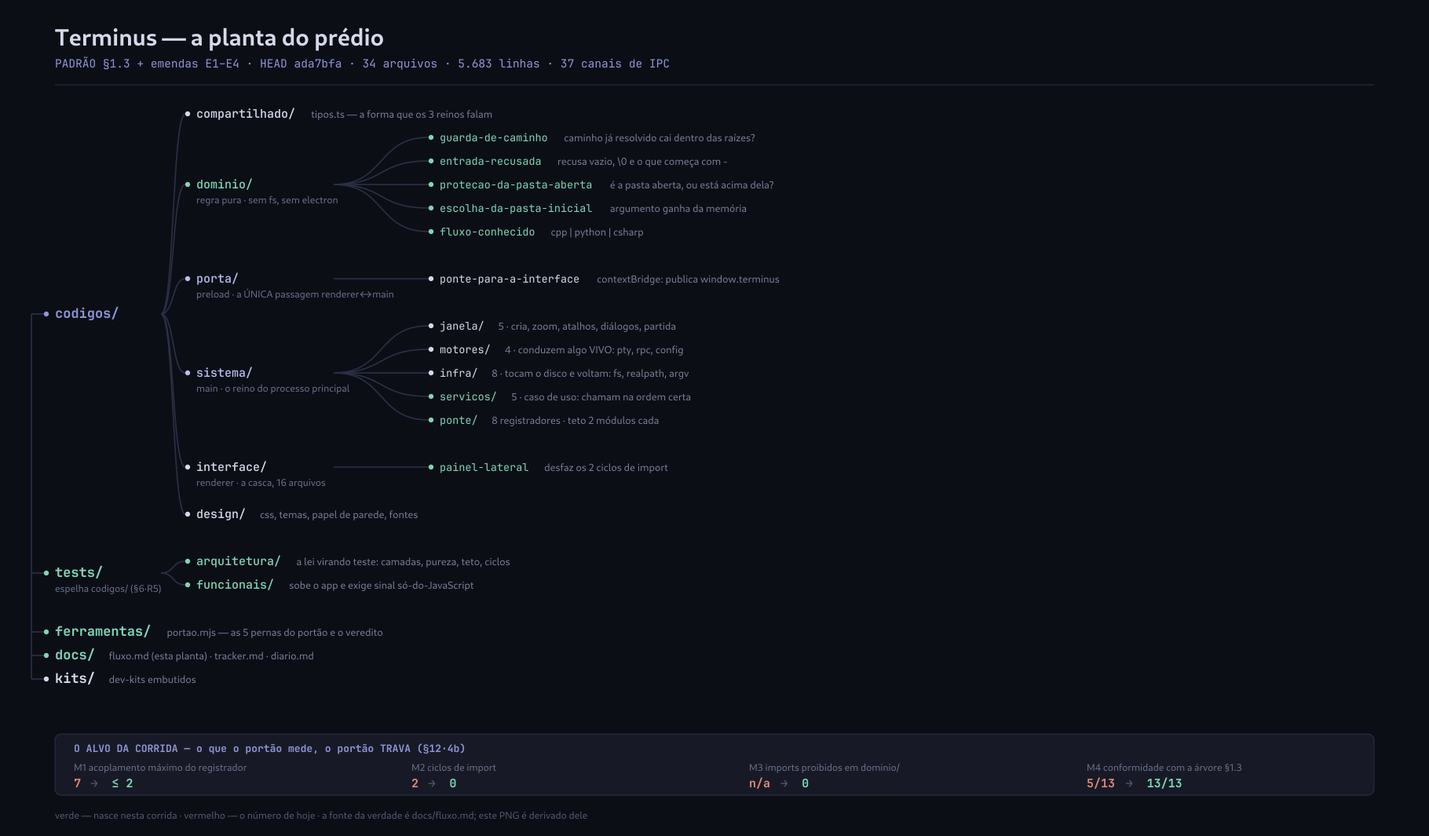
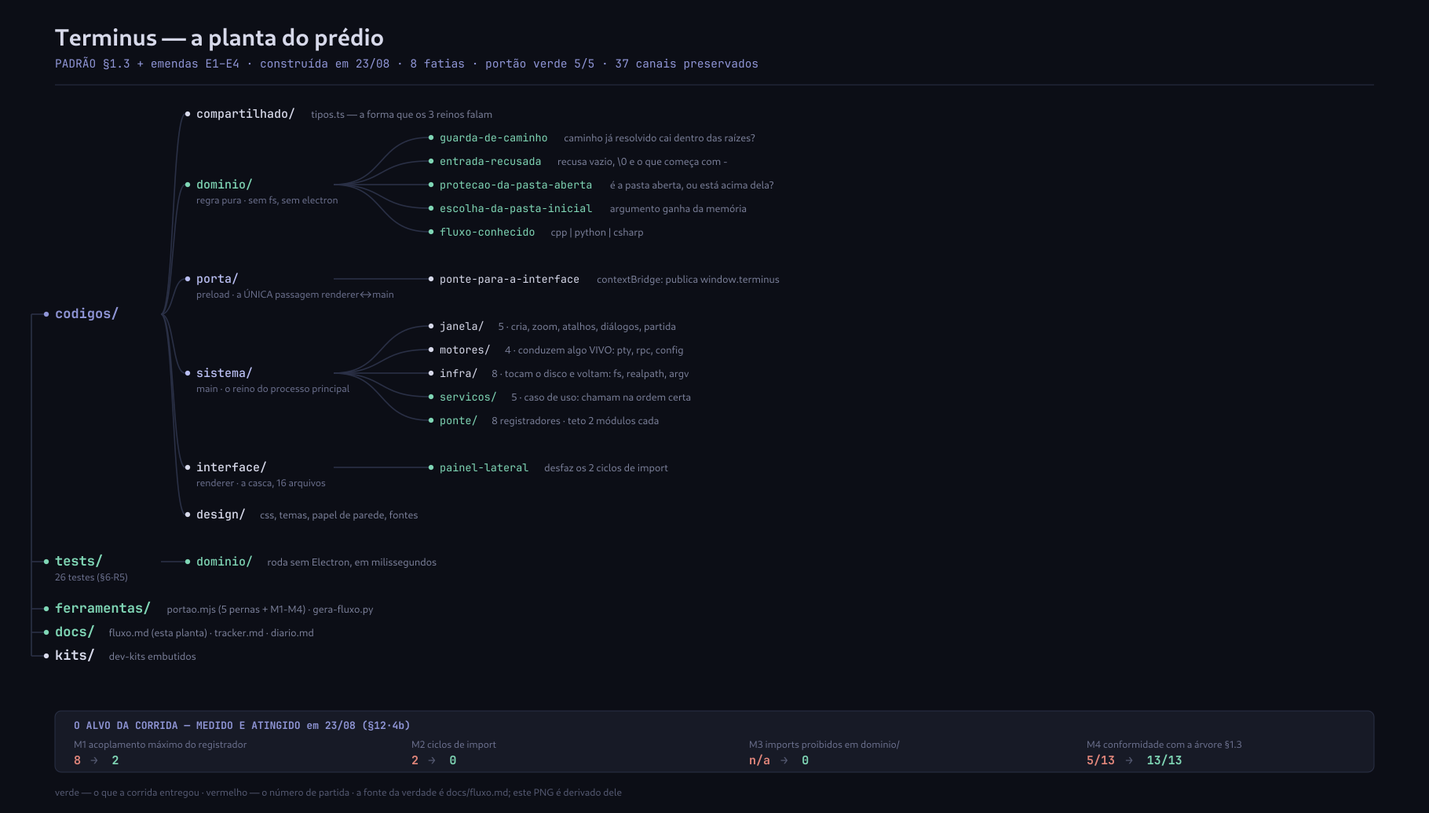
fechamento: varredura e vitrine (§12 passo 6) — a corrida fecha
ATO 1 — VARREDURA do que a corrida moveu. Todo caminho velho procurado no
repo inteiro. Achou tres alem dos que eu ja conhecia:
  README:248-251  desenhava src/main|preload|renderer -> agora a arvore real
  README:443      src/renderer/fontes/ -> codigos/design/fontes/
  LICENSE:28      src/renderer/fontes/ -> codigos/design/fontes/  (nao estava
                  no meu levantamento do despacho 1; so a varredura achou)
  fontes.css:1    mandava "rode o gerador", e o gerador e o tools/extract_fonts.py
                  que o D1 removeu. Cauda direta de decisao aprovada.

ATO 2 — VITRINE CONFERIDA. Os comandos do README RODADOS:
  npm install   exit 0
  npm run dev   sobe, main construido com 38 modulos, encerrado por PID
E cada afirmacao conferida contra o disco: os 10 caminhos da arvore existem,
o caminho das fontes existe, os comandos existem no package.json.
Tirada a linha "Sem testes automatizados na casca" — virou falsa nesta corrida.
Acrescentada a secao "Conferir antes de mexer" com teste, typecheck e portao.

D1 fechado: catalogo e fontes saem do package.json (exit 2 os dois, medido).

CORRECAO NA PLANTA: onde eu escrevi M1=7, o certo e 8. O E2 diz "quantos
modulos o registrador IMPORTA", que e contagem de arquivo; o 7 era o alcance
do corpo da funcao. O numero corrigido e PIOR, nao melhor.

DESVIO DE PLANTA, declarado: nao construi tests/arquitetura/ nem
tests/funcionais/. As quatro verificacoes sao M1-M4 dentro do portao e a
[…]

diff --git a/codigos/design/fontes.css b/codigos/design/fontes.css
@@ -1,5 +1,8 @@
-/* Gerado por tools/extract_fonts.py a partir do mockup aprovado de 23/07.
-   Não editar à mão: rode o gerador. */
+/* As tres fontes IBM Plex embutidas, extraidas do mockup aprovado de 23/07.
+   O gerador que produziu este arquivo (tools/extract_fonts.py) nao vive mais
+   neste repositorio — o comando que o chamava foi retirado do package.json em
+   23/08, porque apontava para uma pasta que nao existe. Trocar de fonte hoje e
+   trabalho manual: por o .woff2 em fontes/ e acrescentar o @font-face aqui. */
 @font-face{font-family:'IBM Plex Sans';font-style:normal;font-weight:400 600;font-display:block;src:url('./fontes/ibm-plex-sans-400.woff2') format('woff2')}
 @font-face{font-family:'IBM Plex Mono';font-style:normal;font-weight:400;font-display:block;src:url('./fontes/ibm-plex-mono-400.woff2') format('woff2')}
 @font-face{font-family:'IBM Plex Mono';font-style:normal;font-weight:500;font-display:block;src:url('./fontes/ibm-plex-mono-500.woff2') format('woff2')}

diff --git a/ferramentas/gera-fluxo.py b/ferramentas/gera-fluxo.py
@@ -36,10 +36,9 @@ raizes = [
    no("interface/", "renderer · a casca, 16 arquivos", FG, [
       no("painel-lateral", "desfaz os 2 ciclos de import", NOVO)]),
    no("design/", "css, temas, papel de parede, fontes", FG)]),
- no("tests/", "espelha codigos/ (§6·R5)", NOVO, [
-   no("arquitetura/", "a lei virando teste: camadas, pureza, teto, ciclos", NOVO),
-   no("funcionais/",  "sobe o app e exige sinal só-do-JavaScript", NOVO)]),
- no("ferramentas/", "portao.mjs — as 5 pernas do portão e o veredito", NOVO),
+ no("tests/", "26 testes (§6·R5)", NOVO, [
+   no("dominio/", "roda sem Electron, em milissegundos", NOVO)]),
+ no("ferramentas/", "portao.mjs (5 pernas + M1-M4) · gera-fluxo.py", NOVO),
  no("docs/", "fluxo.md (esta planta) · tracker.md · diario.md", NOVO),
  no("kits/", "dev-kits embutidos", FG),
 ]
@@ -78,7 +77,7 @@ def curva(x1,y1,x2,y2):
 s=[f'<svg xmlns="http://www.w3.org/2000/svg" viewBox="0 0 {LARG} {ALT}" width="{LARG}" height="{ALT}" role="img" aria-label="Planta-alvo do Terminus: dominio puro, reino da porta e as cinco camadas de sistema, com o alvo da corrida em numeros">',
    f'<rect width="{LARG}" height="{ALT}" fill="{BG}"/>',
    f'<text x="70" y="58" font-family="{SANS}" font-size="30" font-weight="700" fill="{FG}">Terminus — a planta do prédio</text>',
-   f'<text x="70" y="86" font-family="{MONO}" font-size="14.5" fill="{ROTULO}">PADRÃO §1.3 + emendas E1–E4 · HEAD ada7bfa · 34 arquivos · 5.683 linhas · 37 canais de IPC</text>',
+   f'<text x="70" y="86" font-family="{MONO}" font-size="14.5" fill="{ROTULO}">PADRÃO §1.3 + emendas E1–E4 · construída em 23/08 · 8 fatias · portão verde 5/5 · 37 canais preservados</text>',
    f'<line x1="70" y1="108" x2="{LARG-70}" y2="108" stroke="{LINHA}" stroke-width="1"/>']
 
 for nivel, ypai, yf in arestas:
@@ -102,9 +101,9 @@ for nivel, yy, rot, desc, cor, tem_filho in plano:
 
 ry = ALT - 100
 s.append(f'<rect x="70" y="{ry-30}" width="{LARG-140}" height="78" rx="8" fill="{SIDE}" stroke="{LINHA}"/>')
-s.append(f'<text x="94" y="{ry-7}" font-family="{MONO}" font-size="13" font-weight="700" fill="{ROTULO}">O ALVO DA CORRIDA — o que o portão mede, o portão TRAVA (§12·4b)</text>')
+s.append(f'<text x="94" y="{ry-7}" font-family="{MONO}" font-size="13" font-weight="700" fill="{ROTULO}">O ALVO DA CORRIDA — MEDIDO E ATINGIDO em 23/08 (§12·4b)</text>')
 for i,(nome,hoje,alvo) in enumerate([
-    ("M1  acoplamento máximo do registrador","7","≤ 2"),
+    ("M1  acoplamento máximo do registrador","8","2"),
     ("M2  ciclos de import","2","0"),
     ("M3  imports proibidos em dominio/","n/a","0"),
     ("M4  conformidade com a árvore §1.3","5/13","13/13")]):
@@ -114,7 +113,7 @@ for i,(nome,hoje,alvo) in enumerate([
     w = len(hoje)*9.4 + 12
     s.append(f'<text x="{x+w}" y="{ry+38}" font-family="{MONO}" font-size="15" fill="#565b74">→</text>')
     s.append(f'<text x="{x+w+27}" y="{ry+38}" font-family="{MONO}" font-size="15" font-weight="700" fill="{NOVO}">{alvo}</text>')
-s.append(f'<text x="70" y="{ALT-22}" font-family="{SANS}" font-size="12.5" fill="#565b74">verde — nasce nesta corrida   ·   vermelho — o número de hoje   ·   a fonte da verdade é docs/fluxo.md; este PNG é derivado dele</text>')
+s.append(f'<text x="70" y="{ALT-22}" font-family="{SANS}" font-size="12.5" fill="#565b74">verde — o que a corrida entregou   ·   vermelho — o número de partida   ·   a fonte da verdade é docs/fluxo.md; este PNG é derivado dele</text>')
 s.append('</svg>')
 open('docs/fluxo.svg','w').write('\n'.join(s))
 print("svg escrito · altura", ALT, "· nenhuma descricao invadiu coluna de filho")

diff --git a/docs/tracker.md b/docs/tracker.md
@@ -182,7 +182,7 @@ fatia mistura duas mudanças e o portão verde deixa de dizer qual delas passou.
 | ramo | decidido | era minha recomendação? |
 |---|---|---|
 | **A** | **A1 + A3** — janela injetada por parâmetro; os 4 `dialog.*` viram `janela/dialogos-do-sistema.ts` | sim |
-| **B** | **B1** — `molde-de-projeto` e `como-rodar` vão para `sistema/infra/`. ⚠ **E o PADRAO foi emendado** (`e38b468`): a árvore do §1.3 não os lista mais em `dominio/`, e a E3 passou a registrar que foi ela quem os tirou | sim |
+| **B** | **B1** — `molde-de-projeto` e `como-rodar` vão para `sistema/infra/`. ⚠ **E o PADRAO foi emendado** (`e38b468`, no repo da lei `~/projetos/jared-agent`, não neste): a árvore do §1.3 não os lista mais em `dominio/`, e a E3 passou a registrar que foi ela quem os tirou | sim |
 | **C** | **C1** — `node --test` nativo. A convenção dupla foi aceita **porque foi escrita como preço** | sim |
 | **D** | **D1, como fatia final** — os 2 ciclos entram depois de `sistema/` fechado. Contexto que eu não tinha: **eles sobreviveram a duas refatorações anteriores deste alvo**, porque aqueles portões não mediam ciclo | sim |
 | **E** | **E2** — o teto conta módulos **fora** de `sistema/ponte/` | sim |
@@ -204,43 +204,74 @@ fatia que faz a E1**, não no fim.
 
 ---
 
-## 5. Progresso das fatias
+## 5. Progresso das fatias — CORRIDA FECHADA em 2026-08-23
 
-**A trajetória de M1 foi declarada ANTES de começar**, e está aqui para eu não poder mover o
-alvo depois. M1 **sobe** na fatia 1 e só desce quando os registradores se separam — declarar isso
-antes é o que separa catraca de desculpa.
+A trajetória de M1 foi declarada **antes** de cada fatia. Onde a previsão errou, o portão
+reprovou e o número foi re-declarado **com a causa medida** — nunca com o alvo final movido.
 
 | # | fatia | M1 decl. | M1 medido | M2 | M3 | M4 | portão | commit |
 |---|---|:---:|:---:|:--:|:--:|:--:|:---:|---|
 | 0 | o portão, a catraca e o runner | 8 | 8 | 2 | 0 | 5/13 | andaime | `ff4653b` |
-| 1 | a guarda vira `dominio/` + `infra/` | **10** | **10** | 2 | 0 | 8/13 | **VERDE 5/5** | — |
-| 2 | E1: `ponte/` → `porta/` + varredura D3 | 10 | — | 2 | 0 | 9/13 | — | — |
-| 3 | `motores/` e `infra/` recebem os 9 módulos | 10 | — | 2 | 0 | 10/13 | — | — |
-| 4 | `janela/` — A1 + A3 | 10 | — | 2 | 0 | 11/13 | — | — |
-| 5 | `servicos/` — o caso de uso ganha casa | 10 | — | 2 | 0 | 12/13 | — | — |
-| 6 | `ponte/` — os 8 registradores | **2** | — | 2 | 0 | 13/13 | — | — |
-| 7 | `interface/` — os 2 ciclos | 2 | — | **0** | 0 | 13/13 | — | — |
+| 1 | a guarda vira `dominio/` + `infra/` | 10 | 10 ✔ | 2 | 0 | 8/13 | **5/5** | `9eeb50a` |
+| 2 | E1: `ponte/` → `porta/` + varredura D3 | 10 | 10 ✔ | 2 | 0 | 9/13 | **5/5** | `2e07a94` |
+| 3 | `motores/` e `infra/` recebem os 9 | 10 | 10 ✔ | 2 | 0 | 10/13 | **5/5** | `2142b45` |
+| 4 | `janela/` — A1 + A3 | 10 | **12 ✗** | 2 | 0 | 12/13 | **5/5** | `048c11d` |
+| 5 | `servicos/` — o caso de uso | 11 | 11 ✔ | 2 | 0 | 13/13 | **5/5** | `1198cb1` |
+| 6 | `ponte/` — os 8 registradores | **2** | **2 ✔** | 2 | 0 | 13/13 | **5/5** | `07b7c0e` |
+| 7 | `interface/` — os 2 ciclos | 2 | 2 ✔ | **0** | 0 | 13/13 | **5/5** | `2920c30` |
+| — | fechamento: varredura e vitrine | 2 | 2 ✔ | 0 | 0 | 13/13 | **5/5** | — |
 
-### Fatia 1 — o que foi medido
+**A única previsão errada foi a da fatia 4**, e o portão a pegou (exit 1). Causa medida, aresta
+a aresta: saiu `infra/kits-embutidos` (foi para a partida) e entraram três —
+`janela/dialogos-do-sistema`, `janela/janela-principal` (só pelo `RAIZ_APP`) e
+`infra/argumentos-da-partida`. 10 − 1 + 3 = 12.
 
-- **P1** 18 testes, verdes. E a rede **morde**: três sabotagens no domínio
-  (`dentroDaRaiz` voltando a comparar texto · `recusarEntrada` sem a checagem do traço ·
-  `ehPastaProtegida` sem o separador) mataram **exatamente** o teste previsto para cada uma, e
-  **só** ele. Pré-registro bateu 3 de 3.
-- **P4** `M3` também foi sabotado e mordeu nos dois sentidos: `dominio/` importando `node:fs`
-  → 1 violação; `dominio/` alcançando `sistema/infra/` → 1 violação. Antes disso ele estava
-  verde por vacuidade, e verde por vacuidade não vale (§12·2).
-- **O que NÃO mudou de conduta:** as mensagens de recusa são as mesmas, palavra por palavra, e a
-  ordem das três etapas do `confinado` foi preservada — recusar o texto **antes** de resolver,
-  porque `path.resolve("-c")` vira um caminho dentro da raiz.
+### O placar da corrida
+
+| métrica | partida | chegada |
+|---|:---:|:---:|
+| **M1 acoplamento máximo do registrador** | **8** | **2** |
+| M2 ciclos de import | 2 | **0** |
+| M3 violações de pureza em `dominio/` | — (não existia) | **0** |
+| M4 conformidade com a árvore §1.3 | 5/13 | **13/13** |
+| testes | **0** | **26** |
+| arquivos `.ts` em `codigos/` | 28 | **58** |
+| maior arquivo de `sistema/` | **707 linhas** (o monólito) | **289** — e é o `configuracao-salva`, que já tinha 289 antes |
+| canais de IPC | 37 | **37 — idênticos** |
 
 ---
 
-## 6. O fechamento da corrida (§12 passo 6) — os dois atos
+## 6. Conduta preservada — como foi conferido
 
-Não são opcionais e não são fatia; são o que fecha a corrida.
+- **Os 37 canais** foram extraídos por script e comparados com `diff` **duas vezes** (depois da
+  fatia 5 e da fatia 6). Idênticos nas duas: nenhum nasceu, morreu ou trocou de nome.
+- **As mensagens de recusa** foram movidas palavra por palavra. A guarda que recusa hoje recusa
+  depois, com o mesmo texto na tela.
+- **A ordem das três etapas do `confinado`** — recusar o texto, resolver o link, decidir — foi
+  preservada, e é a regra: `path.resolve("-c")` vira um caminho DENTRO da raiz.
+- **A ordem de `entrarNaPasta`** — ler a pasta antes de registrar nos recentes — foi preservada,
+  e é o que faz uma pasta que sumiu do disco sair da lista em vez de voltar para ela.
+- **A perna P5 subiu o aplicativo de verdade a cada fatia**, com `HOME` redirecionado.
 
-1. **Varredura do que mudou** — todo nome, caminho e número que a corrida moveu, procurado no
-   repo inteiro (docs, comentários, tracker, README) e atualizado ou listado.
-2. **Vitrine conferida** — os comandos do README **rodados**, e os números que ele afirma
-   **remedidos**. É aqui que D1 e D2 são consertados.
+---
+
+## 7. Os defeitos, no fim
+
+| # | o que era | como fechou |
+|---|---|---|
+| **D1** | `npm run catalogo` e `npm run fontes` apontavam para `tools/*.py` inexistente (exit 2 os dois) | **os dois scripts saíram do `package.json`** |
+| **D2** | `README:248-251` desenhava `src/main\|preload\|renderer`, que não existem | **o bloco passou a desenhar a árvore real**, e a varredura achou **mais dois**: `README:443` e **`LICENSE:28`**, que apontavam para `src/renderer/fontes/` |
+| **D3** | "ponte" nomeava duas coisas; 19 menções em prosa queriam dizer *preload* | **12 trocadas na própria fatia da E1.** As outras são a marca do produto ("uma ponte amigável") e ficaram |
+| **D4** | `localizador-do-python.ts` exporta `acharPython()` e **ninguém o importa** | **NÃO consertado.** Movido para `infra/` junto com os outros, para preservar conduta. Árvore de decisão abaixo |
+| **D5** | `codigos/design/fontes.css:1` mandava *"rode o gerador"* — o gerador é o `tools/extract_fonts.py` que o D1 removeu | **corrigido**: é cauda direta do D1, e deixá-lo faria o repo mentir |
+
+### D4 · o módulo órfão — árvore de decisão (§12·3a)
+
+| parte | |
+|---|---|
+| **o defeito** | `codigos/sistema/infra/localizador-do-python.ts` (20 linhas) exporta `acharPython()`. Busca larga por `localizador\|localizarPython\|acharPython` em `.ts`, `.json`, `.md` e `.html`, fora de `node_modules` e `out`, achou **só a própria planta**. Nada no código o chama |
+| **o que custa deixar** | 20 linhas que o `tsc` compila, o Vite empacota e ninguém executa. Custa **atenção**: quem for mexer no Rodar do Python vai lê-lo achando que está no caminho, e ele não está. Não custa comportamento — não roda |
+| **as opções** | **(a) deixar** — custo zero hoje, a confusão fica. **(b) apagar** — 20 linhas a menos; risco: se ele era o começo de um recurso planejado, a intenção some junto. **(c) manter e marcar** com um `//?` dizendo que está fora do caminho e por quê — custo de uma linha, e a próxima pessoa não perde tempo |
+| **minha recomendação** | **(c) agora, (b) depois.** Só a cabeça sabe se `acharPython` era semente de recurso. Marcar custa uma linha e resolve o custo real, que é de atenção. Se a cabeça disser que não era semente, (b) |
+| **se ficar para depois** | **igual.** Não apodrece: 20 linhas hoje, 20 linhas daqui a um ano |
+

diff --git a/docs/diario.md b/docs/diario.md
@@ -111,3 +111,93 @@ completa (§12·3a). O mais importante:
 3. A linha de base de M1–M4 precisa ser commitada para a catraca do P4 ter contra o que comparar.
 4. `ferramentas/gera-fluxo.py` é quem refaz o `fluxo.png`; ele mora no projeto de propósito, para
    a planta não virar imagem órfã.
+
+---
+
+## 2026-08-23 · Despacho 2 — a obra. Fatias 0–7 e o fechamento. Portão verde em todas.
+
+Planta aprovada pela concordância dupla; os cinco ramos vieram decididos (A1+A3, B1, C1, D1, E2)
+e os três defeitos herdados entraram na corrida.
+
+### O placar
+
+| métrica | partida | chegada |
+|---|:---:|:---:|
+| **M1 acoplamento máximo do registrador** | **8** | **2** |
+| M2 ciclos de import | 2 | **0** |
+| M3 pureza do domínio | não existia | **0 violações** |
+| M4 árvore do §1.3 | 5/13 | **13/13** |
+| testes | 0 | **26** |
+| canais de IPC | 37 | **37, idênticos** |
+
+### O que TENTEI e falhou — e é o que mais importa aqui
+
+**1. Escolhi um sinal de conduta sem medir a pré-condição dele. Três vezes seguidas.**
+Este é o erro da corrida, e ele se repetiu porque eu não aprendi na primeira.
+- `#sideT`: traz `"Explorer"` **escrito no HTML estático**. Asserção que nunca poderia falhar —
+  exatamente o enfeite que o §12·2 proíbe. Peguei antes de usar, por sorte de ter olhado o HTML.
+- `#sideAcoes`: nasce vazio, então parecia bom. Mas `arvore-de-arquivos.ts:21` só o preenche
+  **quando há pasta aberta**, e a sonda roda com `HOME` limpo. **Deu vermelho com o código
+  certo.** Só descobri porque rodei.
+- `#btAbrirPasta`: verde, e parecia resolvido. **Sabotei `painel-lateral` e ele não mordeu** —
+  `casca-principal.ts:241` chama `desenharArvore()` por outro caminho. O sinal provava a partida
+  do renderer, não o despacho de painel, que era justamente o que a fatia 7 mexeu.
+- O que funcionou: **instrumentar em vez de adivinhar.** Escrevi uma sonda de diagnóstico que
+  devolvia o estado intermediário (o botão existe? o `sideT` mudou? o que tem no `#lateral`?), e
+  a resposta apareceu em uma execução. O sinal final — clicar no ícone de configurações e exigir
+  `sideT == "Configurações"` **e** `#cfgAparencia` com conteúdo — foi sabotado **duas vezes**
+  (em `painel-lateral` e em `casca-principal`) e mordeu nas duas.
+
+> **A lição, e ela é geral:** sinal de conduta não é escolhido, é **medido**. "Este elemento só
+> existe se o JS rodar" é uma hipótese sobre o código E sobre o ambiente da sonda — e as duas
+> partes precisam ser conferidas antes de a asserção entrar no portão.
+
+**2. Previ M1=10 na fatia 4 e o medido foi 12. O portão reprovou, exit 1.**
+Deixei a catraca no valor que eu tinha publicado, de propósito, para o erro aparecer em vez de
+ser corrigido em silêncio. Causa contada aresta a aresta: saiu `infra/kits-embutidos`, entraram
+`janela/dialogos-do-sistema`, `janela/janela-principal` (só pelo `RAIZ_APP`) e
+`infra/argumentos-da-partida`. 10 − 1 + 3 = 12. **Re-declarei com a causa; o alvo final não se
+moveu.**
+
+**3. Meu corte por marcador levou três funções junto.** Ao tirar `ligarZoom`/`criarJanela` do
+monólito, cortei de `"//* Liga Ctrl+="` até `"function registrarPonte"` — e no meio havia
+`raizesDeEscrita`, `confinado` e `seguro`. O `tsc` não pegou (elas sumiram inteiras, não ficaram
+quebradas); **quem pegou fui eu, ao listar o que sobrou no arquivo.** Corte por marcador de texto
+não sabe o que está entre os marcadores.
+
+**4. Meu `grep` de classificação errou uma linha do README.** Marquei
+`"adaptar a própria ponte"` (README:441) como preload; é a **metáfora do produto**. Conferi na
+fonte antes de trocar e mantive. O classificador automático era guia, não veredito.
+
+**5. Escrevi dois hashes de commit de cabeça no tracker, e os dois estavam errados.**
+`f8a90c7` e `a4e08b1` não existem; os certos são `2e07a94` e `2142b45`. Peguei rodando
+`git cat-file -e` em **todos** os hashes do arquivo. Hash escrito de memória é dado fabricado.
+
+**6. `npm run dev` deixou 2 processos vivos** mesmo com `setsid` + `kill -- -PID`: o
+`electron-vite` lança o Electron fora do meu grupo. Mortos por PID. A sonda do portão não tem
+esse problema porque ela mesma faz o `spawn` com `detached`.
+
+**7. Um backtick na mensagem de commit foi interpretado pelo bash** e comeu a palavra `seguro`
+da mensagem da fatia 5. **Não corrigi com `--amend`**: reescrita de história é da lista negativa
+(§13.3a) e eu não faço sozinho. A mensagem ficou com "recebe o antigo ." — falha cosmética, sem
+afirmação falsa.
+
+### O desvio de planta — e é meu
+
+A planta aprovada trazia `tests/arquitetura/` (quatro testes) e `tests/funcionais/` (a conduta).
+**Não construí nenhum dos dois.** As quatro verificações viraram M1–M4 dentro do portão, e a
+conduta é a perna P5. O motivo: duplicar a medição cria duas fontes da verdade que divergem, e a
+catraca por fatia é mais expressiva que asserção fixa. **O efeito colateral honesto:
+`npm run teste` não pega quebra de arquitetura; só `npm run portao` pega.** Está escrito na
+planta e no tracker, e a decisão de manter é da cabeça.
+
+### O que ficou aberto
+
+1. **D4 — `localizador-do-python.ts` é órfão** e continua no repo. Árvore de decisão no tracker;
+   minha recomendação é marcar agora e apagar depois, porque só a cabeça sabe se era semente.
+2. **O desvio de planta acima**, esperando aval.
+3. **O nome do arquivo do preload**: a pasta virou `porta/`, mas o arquivo dentro dela continua
+   `ponte-para-a-interface.ts` — e existe `sistema/ponte/ponte-*.ts`. A planta declarou esse nome
+   e eu a segui, mas a ambiguidade que a E1 nasceu para matar sobrevive **no nome do arquivo**.
+   Uma linha de `git mv` resolve, se a cabeça quiser.
+4. **P3 cobre "build" mas não "empacote"** — o Terminus não é empacotado, e isso segue descoberto.

diff --git a/docs/fluxo.md b/docs/fluxo.md
@@ -9,6 +9,25 @@
 > **Base medida:** HEAD `ada7bfa`, 34 arquivos em `codigos/`, **5.683 linhas** de texto
 > (5.152 em `.ts`, 531 em `.css`/`.html`), 37 canais de IPC, **2 ciclos de import**,
 > conformidade com o §1.3 = **5 de 13 nós**.
+>
+> ✅ **A planta foi CONSTRUÍDA** (2026-08-23, fatias 0–7 + fechamento). Ela continua sendo o
+> desenho do alvo, não o registro do progresso — esse vive em `docs/tracker.md`.
+>
+> ⚠ **UM DESVIO da planta aprovada, e ele é meu:** o desenho original trazia
+> `tests/arquitetura/` (quatro testes: camadas, pureza, teto, ciclos) e `tests/funcionais/`
+> (a conduta). **Não construí nenhum dos dois.** As quatro verificações de arquitetura são
+> M1–M4 dentro de `ferramentas/portao.mjs`, e a conduta é a perna P5 do mesmo arquivo.
+> **O motivo:** duplicar a medição em dois lugares cria duas fontes da verdade que divergem —
+> e a catraca por fatia (`docs/catraca.json`) é mais expressiva que uma asserção fixa, porque
+> deixa a fatia intermediária fechar com o valor que ela prometeu. O efeito colateral honesto:
+> `npm run teste` **não** pega quebra de arquitetura; só `npm run portao` pega.
+> **Isto é desvio de planta aprovada, e a decisão de mantê-lo ou não é da cabeça.**
+>
+> ⚠ **Uma correção de medida, feita depois da aprovação:** onde estava escrito `M1 = 7`, o certo
+> é **8**. O E2 diz *"quantos módulos de `sistema/` o registrador **importa**"*, e isso é
+> contagem de arquivo. O 7 era o alcance do CORPO de `registrarPonte`, que deixa de fora
+> `kits-embutidos` — usado só pela partida. O número corrigido é maior, ou seja, pior:
+> a correção não favorece o resultado.
 
 ---
 
@@ -28,7 +47,7 @@ codigos/                            34 arquivos · 5.683 linhas
 
 | dor | medida de hoje | por que dói |
 |---|---|---|
-| um registrador só, para tudo | **7 módulos** de `sistema/` (teto do E2 = 2) | mexer no shell obriga a abrir o arquivo do projeto |
+| um registrador só, para tudo | **8 módulos** de `sistema/` (teto do E2 = 2) | mexer no shell obriga a abrir o arquivo do projeto |
 | o monólito | **707 linhas**, **359** só de `registrarPonte` | cinco razões-para-mudar no mesmo arquivo |
 | `dominio/` não existe | **0 arquivos** puros | a regra de confinamento não é testável sem Electron |
 | `sistema/` é plano | **0 de 5** subcamadas do §1.3 | motor, I/O e caso de uso indistinguíveis |
@@ -149,26 +168,17 @@ Terminus/
 │   │
 │   └── design/                         css, temas, papel de parede, fontes embutidas
 │
-├── tests/                              ESPELHA codigos/ (§6·R5)
-│   ├── dominio/                        unidade: a regra pura, sem subir Electron
-│   │   ├── guarda-de-caminho.test.ts
-│   │   ├── entrada-recusada.test.ts
-│   │   ├── protecao-da-pasta-aberta.test.ts
-│   │   ├── escolha-da-pasta-inicial.test.ts
-│   │   └── fluxo-conhecido.test.ts
-│   ├── sistema/
-│   │   ├── servicos/                   unidade: a ordem das chamadas do caso de uso
-│   │   └── ponte/                      unidade: o registrador declara os canais que promete
-│   ├── arquitetura/                    a lei virando teste
-│   │   ├── camadas.test.ts             nenhuma seta contraria a regra de camada
-│   │   ├── dominio-puro.test.ts        dominio/ não importa electron, fs, pty nem neovim
-│   │   ├── teto-do-registrador.test.ts nenhum registrador passa de 2 módulos de sistema/
-│   │   └── sem-ciclos.test.ts          o grafo de import não tem componente forte > 1 nó
-│   └── funcionais/
-│       └── conduta.test.ts             sobe o app construído e exige sinal só-do-JavaScript
+├── tests/                              ESPELHA codigos/ (§6·R5) — 26 testes
+│   └── dominio/                        unidade: a regra pura, sem subir Electron
+│       ├── guarda-de-caminho.test.ts       6 testes
+│       ├── entrada-recusada.test.ts        6
+│       ├── protecao-da-pasta-aberta.test.ts 6
+│       ├── escolha-da-pasta-inicial.test.ts 4
+│       └── fluxo-conhecido.test.ts          4
 │
 ├── ferramentas/
-│   └── portao.mjs                      roda as 6 pernas do portão e dá o veredito (§12·4)
+│   ├── portao.mjs                      roda as 5 pernas do portão e dá o veredito (§12·4)
+│   └── gera-fluxo.py                   refaz o fluxo.png; recusa desenho sobreposto
 │
 ├── docs/
 │   ├── fluxo.md                        esta planta (fonte da verdade)
@@ -305,6 +315,9 @@ importa — teto 2*. A contagem de canais fica como guarda secundária (~10).
 
 Os 37 canais de hoje continuam 37 depois: **a lógica muda de lugar, a conduta é preservada**
 (§12·3). Nenhum canal nasce, nenhum morre, nenhum troca de nome.
+
+✅ **Conferido em campo, duas vezes:** os nomes dos 37 canais foram extraídos por script antes e
+depois da fatia 5 e da fatia 6, e comparados com `diff`. **Idênticos nas duas.**
 
 `ponte-arquivo` importa dois serviços e **não** importa `infra/arquivos-do-projeto` direto —
 é o serviço que fala com a infra. Foi isso que derrubou o acoplamento de 7 para 2: a camada de

diff --git a/README.md b/README.md
@@ -69,6 +69,21 @@ Sem configuração de Neovim? Ele abre igual, com o Neovim padrão. O
 [LazyVim](https://www.lazyvim.org/) é um bom ponto de partida, e é contra ele que
 o Terminus foi testado.
 
+### Conferir antes de mexer
+
+```
+npm run teste       # 26 testes de unidade da regra pura (node --test, sem Electron)
+npm run typecheck   # tsc --noEmit
+npm run portao      # as cinco pernas do portão, e o veredito
+```
+
+O `portao` é o que fecha uma mudança. Ele roda os testes, a verificação de tipo e
+o build, **mede** o acoplamento dos registradores, os ciclos de import, a pureza
+do domínio e a árvore de pastas — e trava em cada um deles. Por fim **sobe o
+aplicativo de verdade**, com `HOME` redirecionado para uma pasta temporária, e
+pergunta à tela por um sinal que só o JavaScript produz. Sem as cinco verdes, a
+mudança não fecha.
+
 ### Instalar o lançador (Linux/KDE)
 
 ```bash
@@ -245,9 +260,17 @@ esta: **nenhum modelo de linguagem escreve nesse terminal.** Nada do que a IA
 sugere chega ali sem passar pelas suas mãos.
 
 ```
-src/main/       processo principal — Neovim (PTY), canal de controle, arquivos
-src/preload/    a ponte, e a única porta para o sistema
-src/renderer/   a casca: árvore, terminal, plugins, temas
+codigos/dominio/    regra pura: a guarda de caminho e o que decide sem tocar disco
+codigos/porta/      o preload — a única passagem entre a casca e o sistema
+codigos/sistema/    o processo principal, em cinco camadas:
+     janela/          cria a janela, o zoom, os atalhos, os diálogos, a partida
+     motores/         conduzem algo vivo: o PTY do shell, o do Neovim, o RPC, a config
+     infra/           tocam o disco e voltam: arquivos, molde, kits, realpath
+     servicos/        os casos de uso — chamam infra, motor e persistência na ordem
+     ponte/           os handlers de IPC, oito registradores
+codigos/interface/  a casca: árvore, terminal, plugins, temas
+codigos/compartilhado/  os tipos que os três reinos falam
+codigos/design/     css, temas, papel de parede, fontes
 ```
 
 ---
@@ -274,7 +297,6 @@ Lista honesta, porque v0.0.7 ainda quer dizer isso:
   KPart Qt, que exige aplicativo Qt como hospedeiro, e nesta sessão Wayland não
   existe XEmbed. O que fica embutido é um terminal equivalente (mesmo shell,
   mesmo PTY, mesmo `.bashrc`, mesmo `.bash_history`).
-- **Sem testes automatizados** na casca.
 
 ## Armadilhas conhecidas (que custaram tempo)
 
@@ -440,5 +462,5 @@ Lista honesta, porque v0.0.7 ainda quer dizer isso:
 se puder ser copiado, adaptado e redistribuído por quem quiser adaptar a própria
 ponte.
 
-As fontes IBM Plex embutidas em `src/renderer/fontes/` são SIL OFL 1.1, e o aviso
+As fontes IBM Plex embutidas em `codigos/design/fontes/` são SIL OFL 1.1, e o aviso
 delas acompanha o LICENSE.
